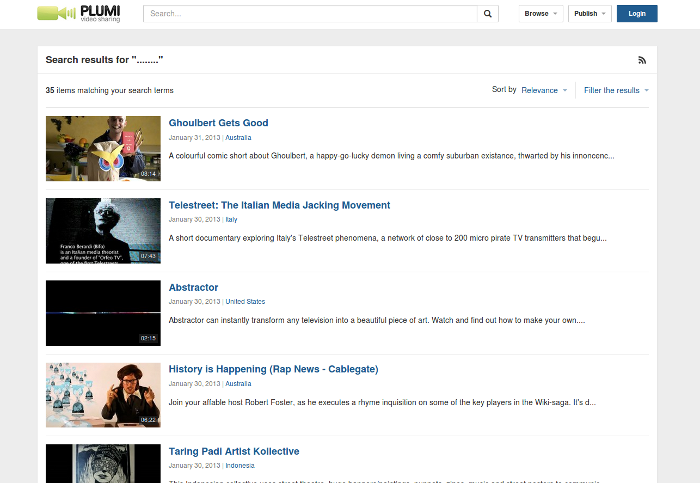
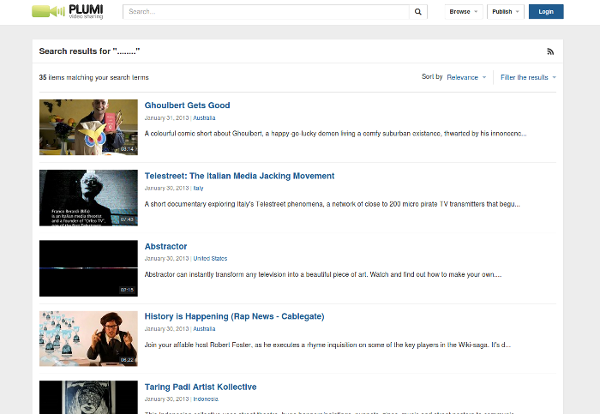
fix screenshots size

diff --git a/README.rst b/README.rst
@@ -50,6 +50,7 @@ video page (καινούργιο theme)
 .. image:: screenshots/video.png
     :alt: video page (καινούργιο theme)
     :width: 600
+    :height: 403
     :align: center
 
 
@@ -68,5 +69,5 @@ video page σε mobile συσκευή (καινούργιο theme)
 .. image:: screenshots/mobile.png
     :alt: video page σε mobile συσκευή (καινούργιο theme)
     :width: 500
-    :height: 336
+    :height: 608
     :align: center
